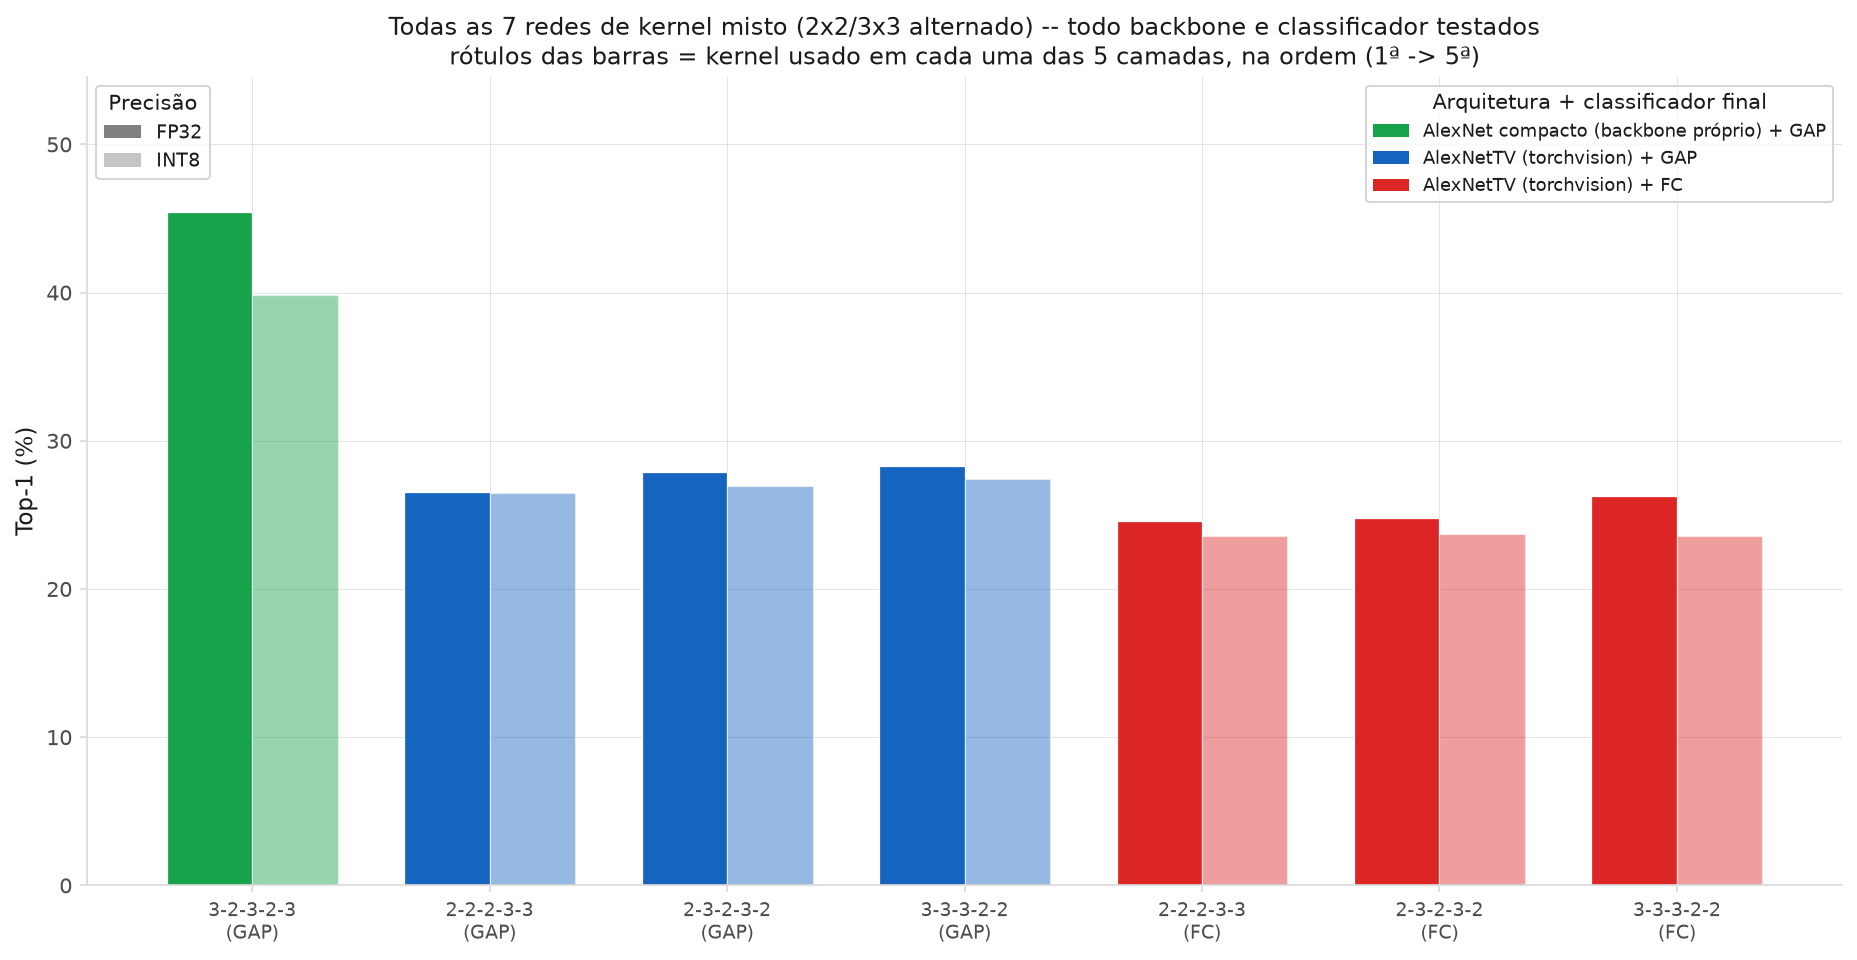
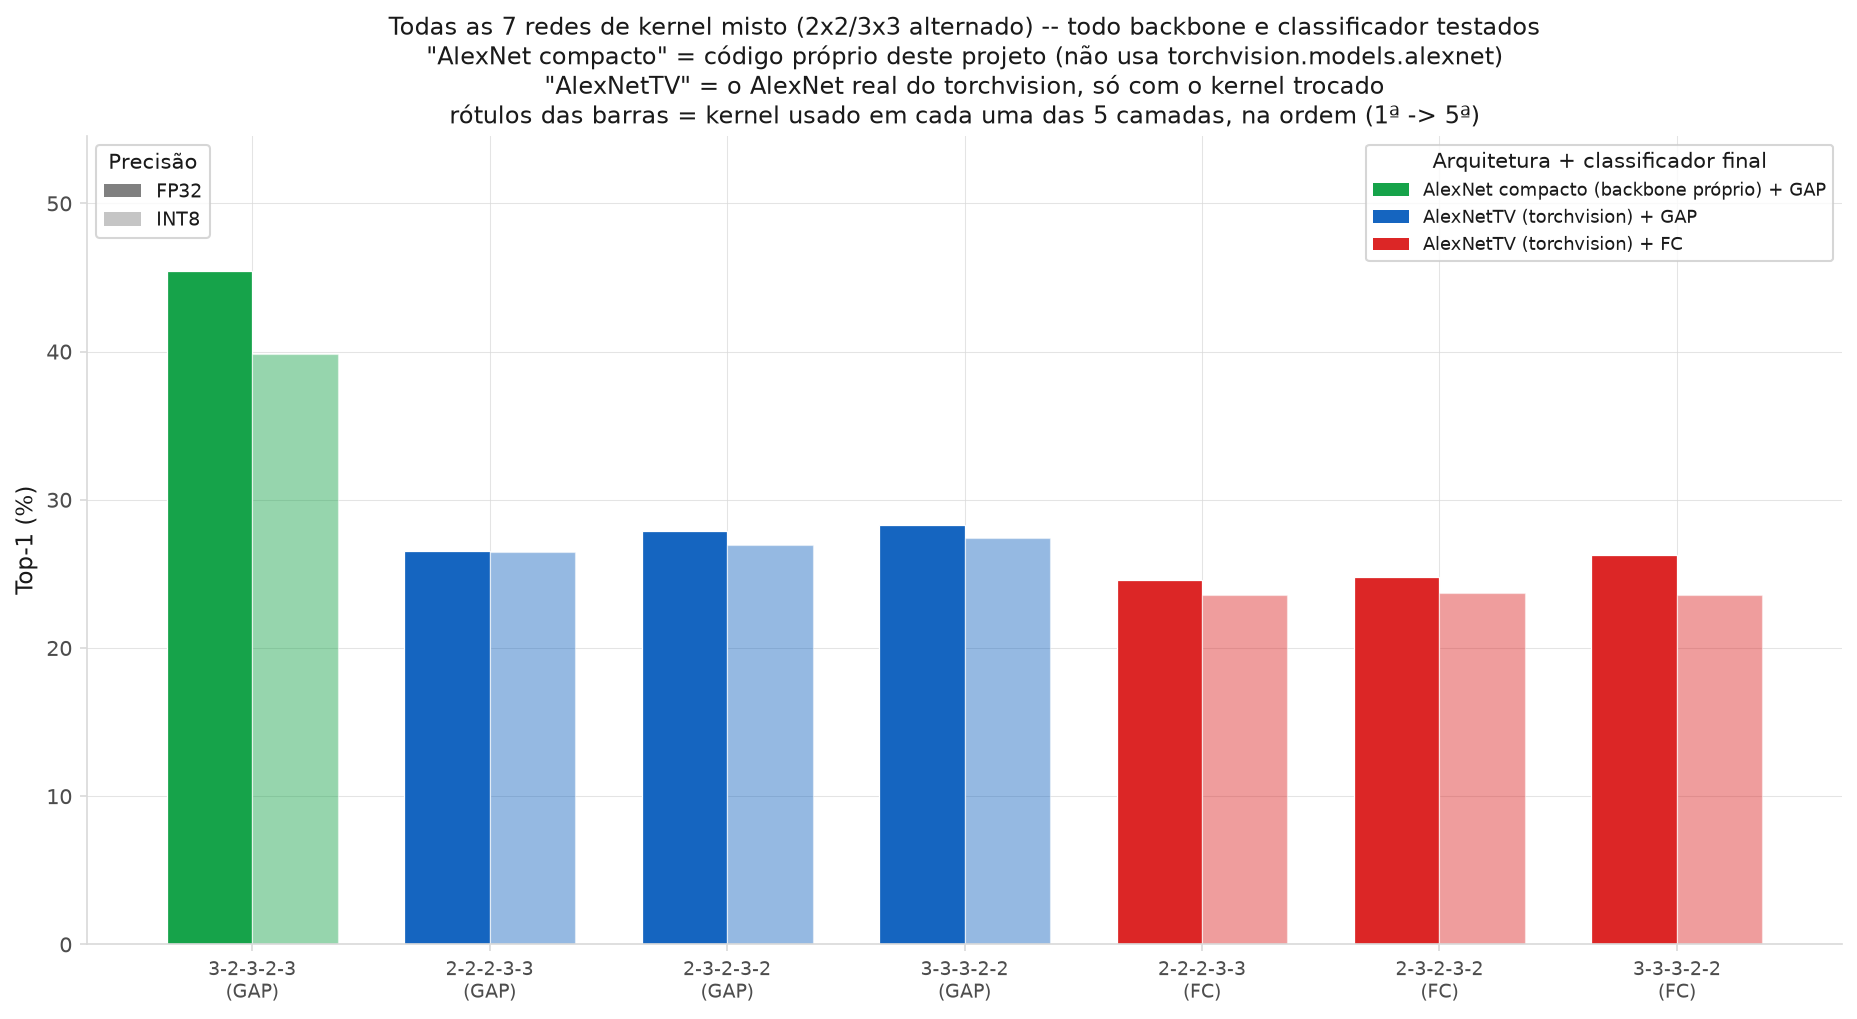
docs: explain "AlexNet compacto" is custom code, not torchvision.alexnet
Figs 02, 05, and 10 said it was a "own backbone"/"own architecture"
without saying what that means concretely. Now they state plainly that
it's hand-written code in this repo that never calls
torchvision.models.alexnet(), unlike AlexNetTV which does and only swaps
the kernel size.

diff --git a/scripts/phase11/plot_kernel_comparison.py b/scripts/phase11/plot_kernel_comparison.py
@@ -153,7 +153,7 @@ def fig_2x2_vs_3x3(models):
     # chart stands on its own without needing charts 02-04 open alongside it. Positions
     # are spread out (not 0,1,2) so the 2-line descriptions have room, not overlap.
     family_desc = {
-        "AlexNet compacto": "AlexNet compacto (backbone próprio,\nnão é o AlexNet clássico/torchvision)\nclassificador GAP (Global Average Pooling) -> poucos MB",
+        "AlexNet compacto": "AlexNet compacto (código próprio deste projeto,\nnão usa o módulo torchvision.models.alexnet)\nclassificador GAP (Global Average Pooling) -> poucos MB",
         "AlexNetTV": "AlexNetTV (torchvision, clássico)\nclassificador FC (Fully Connected,\n3 camadas, 4096 neurônios) -> ~220 MB",
         "VGG16": "VGG16 (torchvision, 13 convoluções)\nclassificador FC (Fully Connected,\n3 camadas) -> ~500 MB",
     }
@@ -248,6 +248,8 @@ def fig_all_mixed(models):
     ax.set_ylabel("Top-1 (%)")
     ax.set_title(
         "Todas as 7 redes de kernel misto (2x2/3x3 alternado) -- todo backbone e classificador testados\n"
+        "\"AlexNet compacto\" = código próprio deste projeto (não usa torchvision.models.alexnet)\n"
+        "\"AlexNetTV\" = o AlexNet real do torchvision, só com o kernel trocado\n"
         "rótulos das barras = kernel usado em cada uma das 5 camadas, na ordem (1ª -> 5ª)", fontsize=11.5)
     ax.margins(y=0.2)
     fp32_patch = plt.Rectangle((0, 0), 1, 1, facecolor="gray", label="FP32")
@@ -303,10 +305,10 @@ def main():
 
     fig_overview(models)
     fig_family_bar(models, "AlexNet compacto", "02_kernel_pattern_alexnet_gap.png",
-                    "AlexNet compacta — arquitetura própria, NÃO é o AlexNet original/torchvision\n"
-                    "5 convoluções estilo AlexNet + classificador GAP (Global Average Pooling, 1 camada)\n"
-                    "GAP = poucos parâmetros -> modelo pequeno, ao contrário do FC (Fully Connected, 3 camadas\n"
-                    "de 4096 neurônios) do AlexNet clássico -- rótulos das barras = kernel de cada camada (1ª -> 5ª)")
+                    "AlexNet compacto — código próprio deste projeto, NÃO usa o módulo torchvision.models.alexnet\n"
+                    "(diferente do AlexNetTV, que usa esse módulo e só troca o kernel)\n"
+                    "5 convoluções estilo AlexNet + classificador GAP (Global Average Pooling, 1 camada) -> modelo pequeno\n"
+                    "rótulos das barras = kernel usado em cada uma das 5 camadas, na ordem (1ª -> 5ª)")
     fig_family_bar([m for m in models if m["family"] == "AlexNetTV" and m["head"] == "FC"],
                     "AlexNetTV", "03_kernel_pattern_alexnettv_fc.png",
                     "AlexNetTV — o AlexNet clássico (torchvision), treinado do zero\n"
